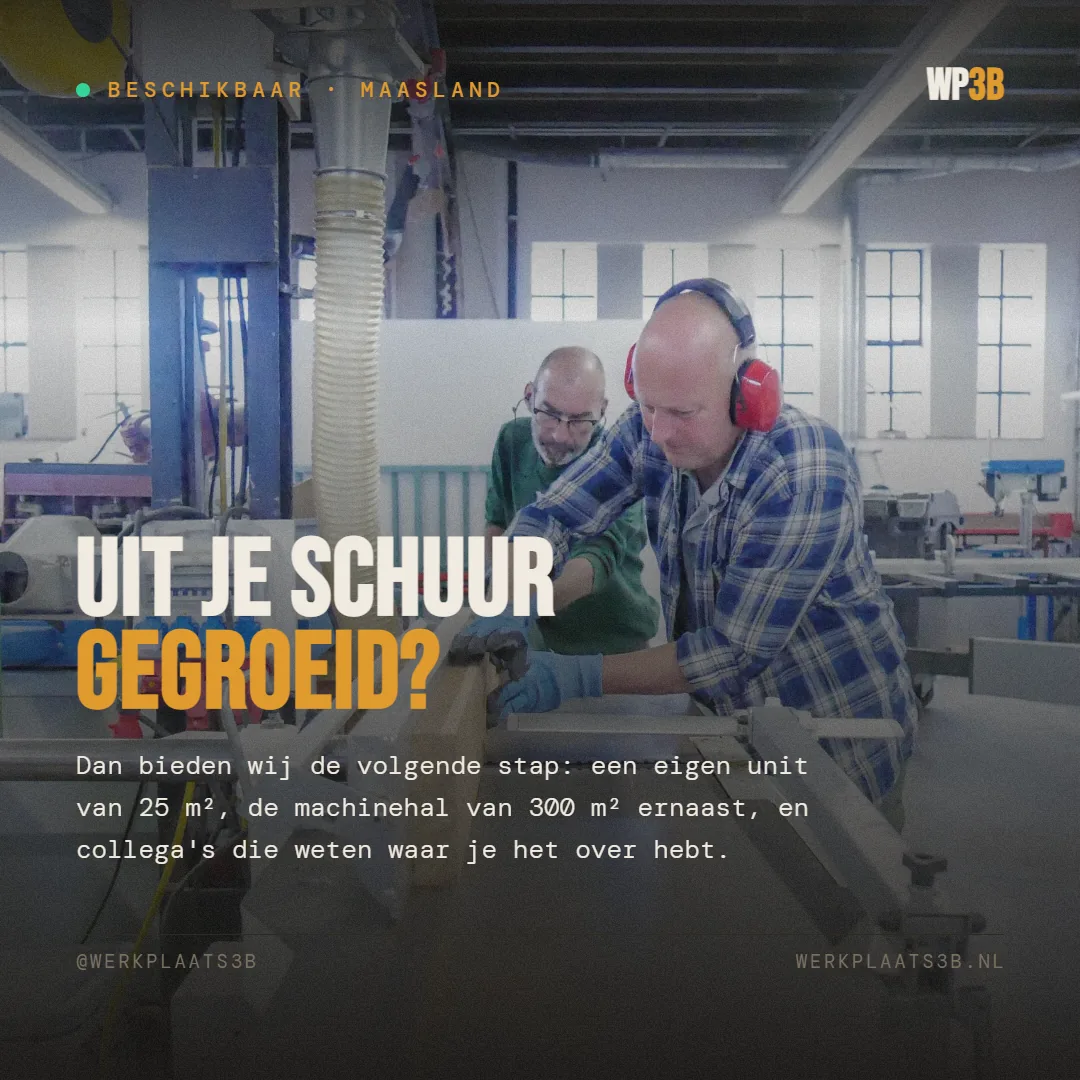
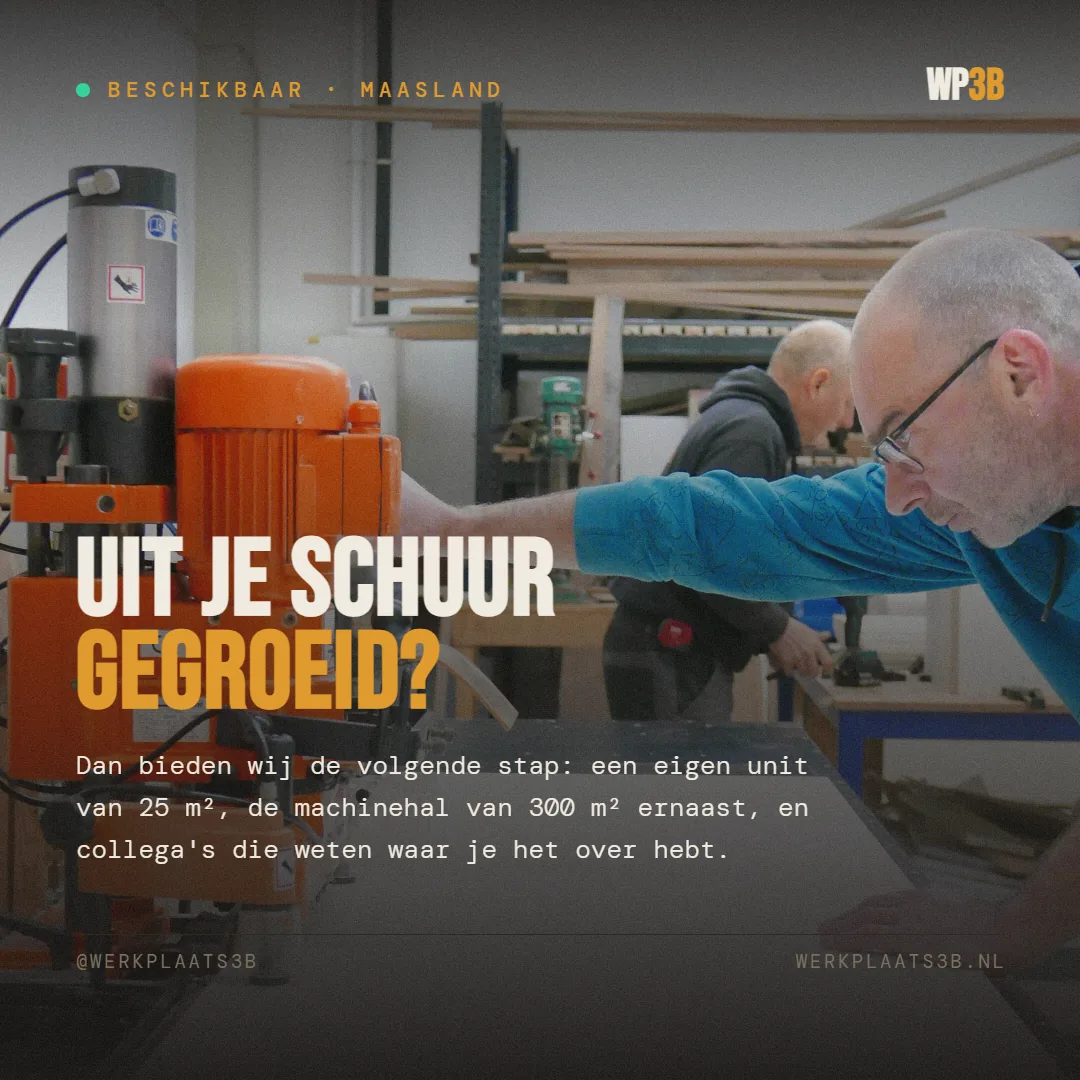
Instagram 007: betere foto uit de contentmap
IMG_2596 vervangt strip0: twee vakmensen in een hoge hal met houtvoorraad,
wat de belofte in de tekst (collega's die weten waar je het over hebt)
wel ondersteunt en een uitsnede met een enkele figuur niet.

diff --git a/docs/instagram-feed.js b/docs/instagram-feed.js
@@ -14,7 +14,7 @@ const INSTAGRAM_FEED = [
   },
   {
     "src": "photos/instagram/p07.webp",
-    "alt": "Twee vakmensen werken samen aan een machine in een lichte werkplaatshal. Tekst: Uit je schuur gegroeid?",
+    "alt": "Twee vakmensen aan een machine in een hoge werkplaatshal, met een rek vol hout op de achtergrond. Tekst: Uit je schuur gegroeid?",
     "caption": "Uit je schuur gegroeid?\n\nDat is het punt waarop bijna iedereen in dit vak een keer komt. Je past er niet meer in, maar een eigen bedrijfspand huren is nog te groot en te duur.\n\nWij bieden de stap ertussenin: een eigen unit van 25 m² met opslag op de entresol, een machinehal van 300 m² ernaast, en een handvol collega's die weten waar je het over hebt.\n\nEr zijn er nog 3 vrij. Vanaf 21 september. werkplaats3b.nl\n\n#werkplaats3b #meubelmaker #interieurbouw #vakmanschap #maasland #westland #zzp #houtbewerking #atelier #bedrijfsruimte",
     "datum": "2026-08-20"
   },
